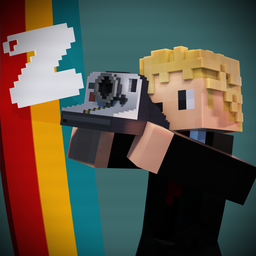
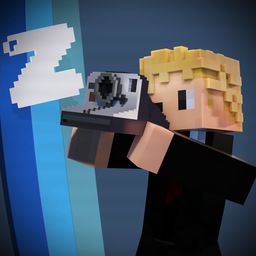
Show the new blue title when the overhead view opens
The Zocular title pops in with Overhead View and a key hint under it, then fades after about two seconds (Show the title turns it off). The settings screen, README and mod icon use the new blue title and the blue-background icon.

diff --git a/src/main/java/dev/bhored/zocular/hud/Splash.java b/src/main/java/dev/bhored/zocular/hud/Splash.java
@@ -1,0 +1,104 @@
+package dev.bhored.zocular.hud;
+
+import dev.bhored.zocular.Zocular;
+import dev.bhored.zocular.util.Motion;
+import net.minecraft.client.gui.Font;
+import net.minecraft.client.gui.GuiGraphicsExtractor;
+import net.minecraft.client.renderer.RenderPipelines;
+import net.minecraft.network.chat.Component;
+import net.minecraft.resources.Identifier;
+import net.minecraft.util.ARGB;
+import net.minecraft.util.Mth;
+import net.minecraft.util.Util;
+import org.jspecify.annotations.Nullable;
+
+/**
+ * A short title card: the Zocular title pops in at the top of the screen with a line of text under it, holds, then
+ * fades. Used when the overhead view switches on.
+ */
+public final class Splash {
+	public static final Identifier TITLE = Zocular.id("textures/gui/title.png");
+	private static final int TITLE_WIDTH = 1024;
+	private static final int TITLE_HEIGHT = 224;
+	private static final float POP_IN = 0.28F;
+	private static final float HOLD_UNTIL = 1.9F;
+	private static final float GONE_AT = 2.4F;
+
+	private static long shownAt = -1L;
+	private static @Nullable Component heading;
+	private static @Nullable Component hint;
+
+	private Splash() {
+	}
+
+	public static void show(Component headingText, Component hintText) {
+		heading = headingText;
+		hint = hintText;
+		shownAt = Util.getMillis();
+	}
+
+	public static void hide() {
+		shownAt = -1L;
+	}
+
+	public static boolean isShowing() {
+		return shownAt >= 0L;
+	}
+
+	static void draw(GuiGraphicsExtractor graphics, Font font) {
+		if (shownAt < 0L) {
+			return;
+		}
+		float t = (Util.getMillis() - shownAt) / 1000.0F;
+		if (t >= GONE_AT) {
+			shownAt = -1L;
+			return;
+		}
+		float alpha;
+		float scale = 1.0F;
+		if (t < POP_IN) {
+			float p = Motion.easeOut(t / POP_IN);
+			alpha = p;
+			scale = 0.86F + 0.14F * p;
+		} else if (t > HOLD_UNTIL) {
+			alpha = 1.0F - (t - HOLD_UNTIL) / (GONE_AT - HOLD_UNTIL);
+		} else {
+			alpha = 1.0F;
+		}
+		alpha = Mth.clamp(alpha, 0.0F, 1.0F);
+
+		int screenWidth = graphics.guiWidth();
+		float width = Math.min(screenWidth * 0.46F, 300.0F);
+		float height = width * TITLE_HEIGHT / TITLE_WIDTH;
+		float centreX = screenWidth / 2.0F;
+		float top = graphics.guiHeight() * 0.11F;
+
+		graphics.pose().pushMatrix();
+		graphics.pose().translate(centreX, top + height / 2.0F);
+		graphics.pose().scale(scale * width / TITLE_WIDTH, scale * width / TITLE_WIDTH);
+		int x = -TITLE_WIDTH / 2;
+		int y = -TITLE_HEIGHT / 2;
+		// A hard drop shadow, the title's own shape in black, so it reads on snow and sky as well as grass.
+		graphics.blit(RenderPipelines.GUI_TEXTURED, TITLE, x + 10, y + 16, 0.0F, 0.0F, TITLE_WIDTH, TITLE_HEIGHT,
+			TITLE_WIDTH, TITLE_HEIGHT, TITLE_WIDTH, TITLE_HEIGHT, ARGB.color(Math.round(alpha * 110), 0, 0, 0));
+		graphics.blit(RenderPipelines.GUI_TEXTURED, TITLE, x, y, 0.0F, 0.0F, TITLE_WIDTH, TITLE_HEIGHT,
+			TITLE_WIDTH, TITLE_HEIGHT, TITLE_WIDTH, TITLE_HEIGHT, ARGB.white(alpha));
+		graphics.pose().popMatrix();
+
+		// Text with almost no alpha is drawn fully opaque by the font renderer, so skip it at the very end.
+		if (alpha < 0.05F) {
+			return;
+		}
+		float textTop = top + height + 8.0F;
+		if (heading != null) {
+			graphics.pose().pushMatrix();
+			graphics.pose().translate(centreX, textTop);
+			graphics.pose().scale(2.0F, 2.0F);
+			graphics.centeredText(font, heading, 0, 0, ARGB.white(alpha));
+			graphics.pose().popMatrix();
+		}
+		if (hint != null) {
+			graphics.centeredText(font, hint, Math.round(centreX), Math.round(textTop + 22.0F), ARGB.color(Math.round(alpha * 255), 200, 200, 200));
+		}
+	}
+}

diff --git a/src/gametest/java/dev/bhored/zocular/test/ZocularClientTest.java b/src/gametest/java/dev/bhored/zocular/test/ZocularClientTest.java
@@ -9,6 +9,7 @@ import dev.bhored.zocular.config.Settings;
 import dev.bhored.zocular.config.ZocularConfig;
 import dev.bhored.zocular.gui.HudEditorScreen;
 import dev.bhored.zocular.gui.SettingsScreen;
+import dev.bhored.zocular.hud.Splash;
 import net.fabricmc.fabric.api.client.gametest.v1.FabricClientGameTest;
 import net.fabricmc.fabric.api.client.gametest.v1.TestInput;
 import net.fabricmc.fabric.api.client.gametest.v1.context.ClientGameTestContext;
@@ -273,8 +274,12 @@ public final class ZocularClientTest implements FabricClientGameTest {
 		BlockPos gold = new BlockPos(2, -60, 20);
 
 		input.pressKey(Keybinds.OVERHEAD);
-		context.waitTicks(30);
+		context.waitTicks(16);
 		check(CameraControl.get().mode() == CameraControl.Mode.OVERHEAD, "the overhead view should be on");
+		check(Splash.isShowing(), "the Zocular title should show when the overhead view switches on");
+		context.takeScreenshot("overhead-splash");
+		context.waitTicks(40);
+		check(!Splash.isShowing(), "the title should be gone after a couple of seconds");
 		check(!context.computeOnClient(minecraft -> minecraft.mouseHandler.isMouseGrabbed()), "the cursor should be free");
 
 		double[] onGold = project(context, Vec3.atCenterOf(gold).add(0.0, 0.5, 0.0));

diff --git a/src/main/java/dev/bhored/zocular/camera/CameraControl.java b/src/main/java/dev/bhored/zocular/camera/CameraControl.java
@@ -7,6 +7,7 @@ import dev.bhored.zocular.config.ZocularConfig;
 import dev.bhored.zocular.config.ZocularConfig.PanelMode;
 import dev.bhored.zocular.config.ZocularConfig.ShaderMode;
 import dev.bhored.zocular.hud.Notices;
+import dev.bhored.zocular.hud.Splash;
 import dev.bhored.zocular.util.Keys;
 import dev.bhored.zocular.util.Motion;
 import java.util.Locale;
@@ -333,7 +334,12 @@ public final class CameraControl {
 		overhead.start(minecraft.player);
 		mode = Mode.OVERHEAD;
 		minecraft.mouseHandler.releaseMouse();
-		Notices.show(Component.translatable("zocular.notice.overhead_on"));
+		if (ZocularConfig.get().overhead.splash) {
+			Splash.show(Component.translatable("zocular.splash.overhead"),
+				Component.translatable("zocular.splash.overhead.hint", Keybinds.OVERHEAD.getTranslatedKeyMessage()));
+		} else {
+			Notices.show(Component.translatable("zocular.notice.overhead_on"));
+		}
 	}
 
 	private void endOverhead(Minecraft minecraft) {
@@ -342,6 +348,7 @@ public final class CameraControl {
 		}
 		release(minecraft);
 		mode = Mode.NONE;
+		Splash.hide();
 		if (minecraft.gui.screen() == null) {
 			minecraft.mouseHandler.grabMouse();
 		}

diff --git a/src/main/java/dev/bhored/zocular/config/Settings.java b/src/main/java/dev/bhored/zocular/config/Settings.java
@@ -166,6 +166,7 @@ public final class Settings {
 			slider("overhead.distance", 6.0F, 64.0F, 1.0F, format("blocks", "%.0f"), c -> c.overhead.distance, (c, v) -> c.overhead.distance = v),
 			slider("overhead.angle", 30.0F, 85.0F, 1.0F, format("degrees", "%.0f"), c -> c.overhead.angle, (c, v) -> c.overhead.angle = v),
 			slider("overhead.fov", 20.0F, 90.0F, 1.0F, format("degrees", "%.0f"), c -> c.overhead.fov, (c, v) -> c.overhead.fov = v),
+			toggle("overhead.splash", c -> c.overhead.splash, (c, v) -> c.overhead.splash = v),
 			new Note("camera.overhead"),
 			new Heading("camera.roll"),
 			slider("roll.speed", 5.0F, 180.0F, 5.0F, format("degrees_per_second", "%.0f"), c -> c.roll.speed, (c, v) -> c.roll.speed = v),

diff --git a/src/main/java/dev/bhored/zocular/hud/Overlay.java b/src/main/java/dev/bhored/zocular/hud/Overlay.java
@@ -82,6 +82,7 @@ public final class Overlay {
 			}
 			timeline(graphics, path.fraction(), markers);
 		}
+		Splash.draw(graphics, font);
 		Component message = Notices.current();
 		if (message != null) {
 			notice(graphics, font, message, Notices.alpha());

diff --git a/src/main/java/dev/bhored/zocular/config/ZocularConfig.java b/src/main/java/dev/bhored/zocular/config/ZocularConfig.java
@@ -150,6 +150,7 @@ public final class ZocularConfig {
 		public float distance = 18.0F;
 		public float angle = 55.0F;
 		public float fov = 50.0F;
+		public boolean splash = true;
 	}
 
 	public static final class Roll {

diff --git a/CHANGELOG.md b/CHANGELOG.md
@@ -2,7 +2,8 @@
 
 ## Unreleased
 
-- New overhead view (<kbd>U</kbd>), like a strategy game: the camera hangs above you at a fixed angle and a mouse cursor appears. Click what the cursor is on to mine, build, open chests or hit mobs, within your normal reach (the block outline shows when you can). <kbd>W</kbd> <kbd>A</kbd> <kbd>S</kbd> <kbd>D</kbd> move you up, left, down and right on the screen, <kbd>[</kbd> and <kbd>]</kbd> turn the camera, and holding Zoom while scrolling raises or lowers it. Height, angle and lens are under Camera > Overhead view.
+- New overhead view (<kbd>U</kbd>), like a strategy game: the camera hangs above you at a fixed angle and a mouse cursor appears. Click what the cursor is on to mine, build, open chests or hit mobs, within your normal reach (the block outline shows when you can). <kbd>W</kbd> <kbd>A</kbd> <kbd>S</kbd> <kbd>D</kbd> move you up, left, down and right on the screen, <kbd>[</kbd> and <kbd>]</kbd> turn the camera, and holding Zoom while scrolling raises or lowers it. Height, angle and lens are under Camera > Overhead view. The new Zocular title shows for a moment when it switches on (Show the title turns that off).
+- New blue Zocular title and icon.
 - Far third-person view is back: in F5, press Zoom (<kbd>C</kbd>) to swing the camera far out behind you, scroll to take it as far as 96 blocks (up to 256 in the settings) or back in, and press Zoom again to come back. You keep playing normally the whole time, and fog is pushed out with the camera so the world doesn't vanish. Turn it off under Camera > Zoom key pulls the camera back.
 - Camera paths can now play while you keep playing: turn on Camera Path > Play while it runs, set your keyframes in freecam and press Use. During the shot, your movement, mouse and clicks go to your player, so you can walk, build or fight on camera. Freecam (<kbd>F4</kbd>) stops the shot, and when it ends the camera comes back to you.
 
